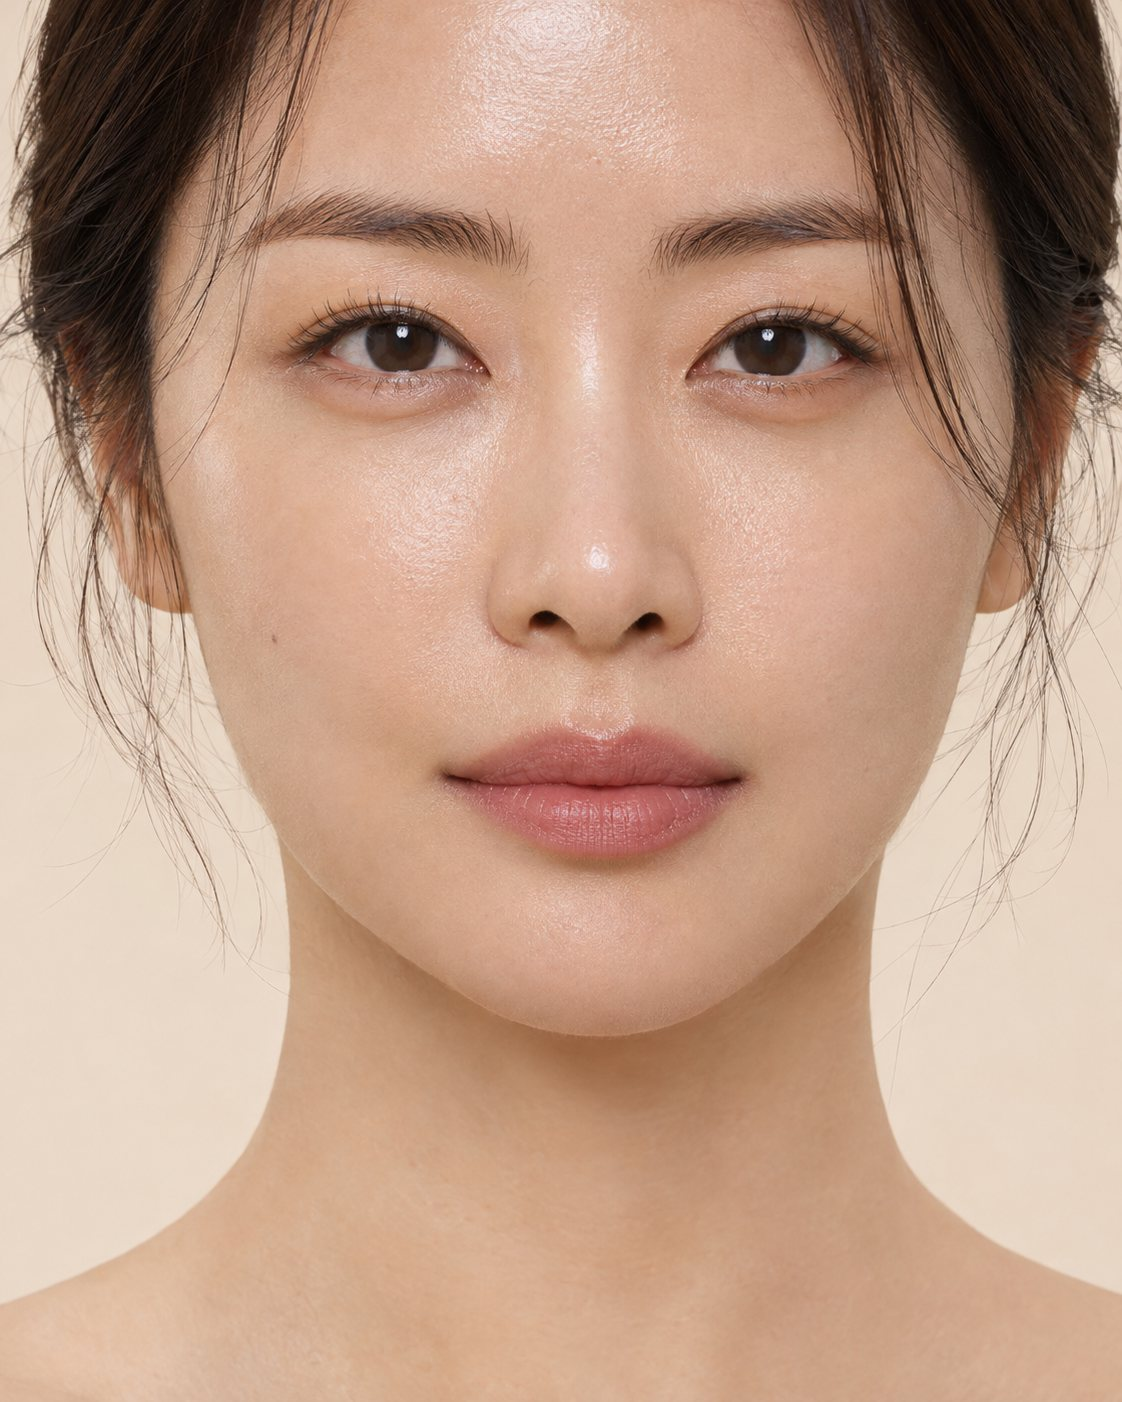
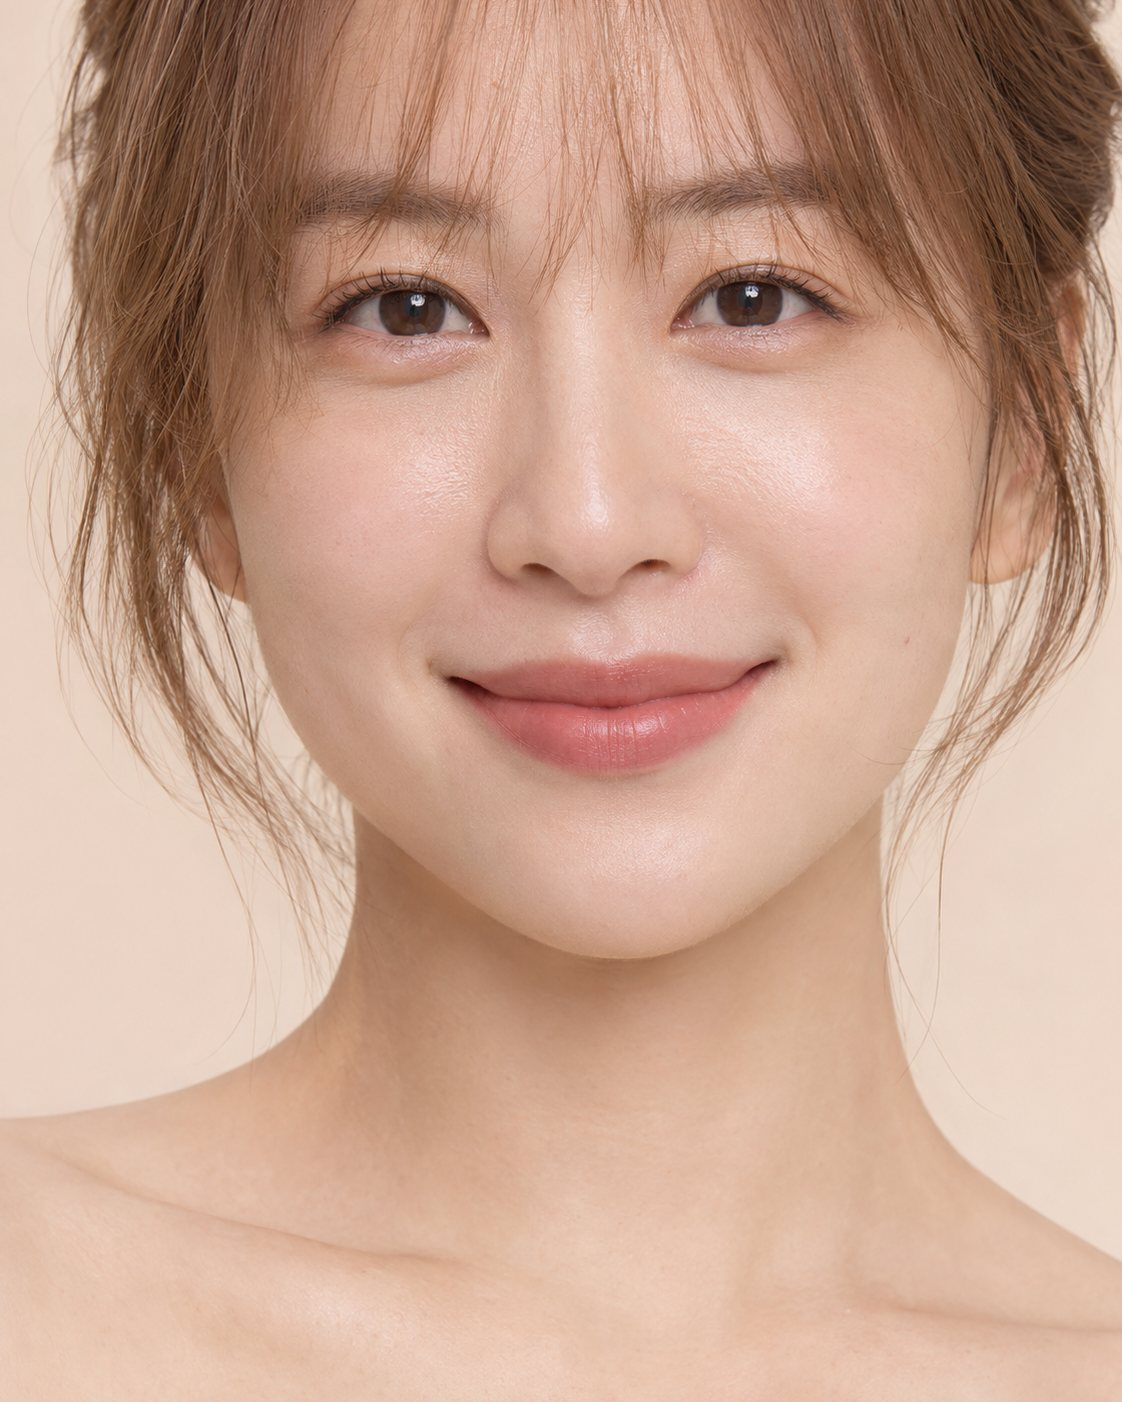
v2: 상품 가격 순 정렬 + 대만 인상 화보 모델로 교체

diff --git a/v2/a.html b/v2/a.html
@@ -327,7 +327,7 @@ a:focus-visible,summary:focus-visible,.opt:focus-visible{outline:3px solid #155e
 const LINE_URL = "https://line.me/R/ti/p/@117yaafh";
 const D = {
   lift:{
-    img:"img/lift.jpg", pos:"50% 30%", pill:"拉提・首爾明洞 初訪限定", h1:"綁起高馬尾的時候，<br>下顎線還在嗎？", big:"99萬",
+    img:"img/lift.jpg", pos:"50% 62%", pill:"拉提・首爾明洞 初訪限定", h1:"綁起高馬尾的時候，<br>下顎線還在嗎？", big:"99萬",
     name:"[初訪限定] ONDA 40KJ ＋ 美國極線音波 300發", short:"ONDA 40KJ＋美國極線音波 300發",
     now:"990,000", was:"1,950,000", save:"960,000", cond:"",
     incl:["ONDA 微波拉提 40KJ","美國極線音波 300發","療程前與醫師諮詢，依膚況安排部位"],
@@ -338,7 +338,7 @@ const D = {
     extra:""
   },
   onda:{
-    img:"img/onda.jpg", pos:"50% 40%", pill:"ONDA 微波拉提 初訪限定", h1:"臉頰肉肉的，<br>拍照總要找側臉？", big:"3.9萬",
+    img:"img/onda.jpg", pos:"50% 60%", pill:"ONDA 微波拉提 初訪限定", h1:"臉頰肉肉的，<br>拍照總要找側臉？", big:"3.9萬",
     name:"[初訪限定] ONDA 微波拉提 10KJ", short:"ONDA 微波拉提 10KJ",
     now:"39,000", was:"77,000", save:"38,000",
     cond:"優惠價最多可加購至30KJ（30KJ＝117,000韓元）<br>超過30KJ的部分以原價計算（每10KJ 77,000韓元）",
@@ -350,7 +350,7 @@ const D = {
     extra:"・ONDA 優惠價最多適用至30KJ，超過部分以原價（每10KJ 77,000韓元）計算<br>"
   },
   potenza:{
-    img:"img/glow.jpg", pos:"50% 45%", pill:"毛孔・膚質 初訪限定", h1:"毛孔大到<br>上妝會卡粉？", big:"19萬",
+    img:"img/glow.jpg", pos:"50% 62%", pill:"毛孔・膚質 初訪限定", h1:"毛孔大到<br>上妝會卡粉？", big:"19萬",
     name:"[初訪限定] 黃金微針 N探頭 ＋ JUVELOOK水光 2CC", short:"黃金微針 N探頭＋JUVELOOK水光 2CC",
     now:"190,000", was:"370,000", save:"180,000", cond:"",
     incl:["黃金微針 N探頭（已含探頭費用）","JUVELOOK 水光 2CC","療程前與醫師諮詢"],
@@ -362,7 +362,7 @@ const D = {
   }
 };
 const MORE = [["咀嚼肌肉毒 50U","9,900"],["臉部減脂注射 3CC","9,900"],["皮秒雷射","19,000"],["鈦提升 10KJ","49,000"]];
-const ORDER = ["lift","onda","potenza"];
+const ORDER = ["onda","potenza","lift"];   // 가격 낮은 순(3.9만·19만·99만)
 let cur = new URLSearchParams(location.search).get("t");
 if(!D[cur]) cur = "lift";
 const $ = id => document.getElementById(id);
@@ -392,7 +392,7 @@ function render(k, top){
     + MORE.map(([n, p]) => `<tr><td>${n}</td><td>${p}韓元</td></tr>`).join("");
   document.querySelectorAll(".opt").forEach(o => { const on = o.dataset.k === k; o.classList.toggle("on", on); o.setAttribute("aria-pressed", String(on)); });
 }
-$("opts").innerHTML = [cur, ...ORDER.filter(k => k !== cur)].map((k, i) => {
+$("opts").innerHTML = ORDER.map((k, i) => {
   const d = D[k];
   return `<button type="button" class="opt" data-k="${k}" aria-pressed="false"><span class="n">方案 ${i + 1}</span><b>${d.short}</b>
   <span class="p"><i>49%</i><strong>${d.now}韓元</strong><s>${d.was}韓元</s></span>${d.cond ? '<span class="c">優惠價最多可加購至30KJ</span>' : ""}</button>`;

diff --git a/v2/b.html b/v2/b.html
@@ -331,7 +331,7 @@ a:focus-visible,summary:focus-visible,.opt:focus-visible{outline:3px solid #155e
 const LINE_URL = "https://line.me/R/ti/p/@117yaafh";
 const D = {
   lift:{
-    img:"img/lift.jpg", pos:"50% 30%", pill:"拉提・首爾明洞 初訪限定", h1:"綁起高馬尾的時候，<br>下顎線還在嗎？", big:"99萬",
+    img:"img/lift.jpg", pos:"50% 62%", pill:"拉提・首爾明洞 初訪限定", h1:"綁起高馬尾的時候，<br>下顎線還在嗎？", big:"99萬",
     name:"[初訪限定] ONDA 40KJ ＋ 美國極線音波 300發", short:"ONDA 40KJ＋美國極線音波 300發",
     now:"990,000", was:"1,950,000", save:"960,000", cond:"",
     incl:["ONDA 微波拉提 40KJ","美國極線音波 300發","療程前與醫師諮詢，依膚況安排部位"],
@@ -342,7 +342,7 @@ const D = {
     extra:""
   },
   onda:{
-    img:"img/onda.jpg", pos:"50% 40%", pill:"ONDA 微波拉提 初訪限定", h1:"臉頰肉肉的，<br>拍照總要找側臉？", big:"3.9萬",
+    img:"img/onda.jpg", pos:"50% 60%", pill:"ONDA 微波拉提 初訪限定", h1:"臉頰肉肉的，<br>拍照總要找側臉？", big:"3.9萬",
     name:"[初訪限定] ONDA 微波拉提 10KJ", short:"ONDA 微波拉提 10KJ",
     now:"39,000", was:"77,000", save:"38,000",
     cond:"優惠價最多可加購至30KJ（30KJ＝117,000韓元）<br>超過30KJ的部分以原價計算（每10KJ 77,000韓元）",
@@ -354,7 +354,7 @@ const D = {
     extra:"・ONDA 優惠價最多適用至30KJ，超過部分以原價（每10KJ 77,000韓元）計算<br>"
   },
   potenza:{
-    img:"img/glow.jpg", pos:"50% 45%", pill:"毛孔・膚質 初訪限定", h1:"毛孔大到<br>上妝會卡粉？", big:"19萬",
+    img:"img/glow.jpg", pos:"50% 62%", pill:"毛孔・膚質 初訪限定", h1:"毛孔大到<br>上妝會卡粉？", big:"19萬",
     name:"[初訪限定] 黃金微針 N探頭 ＋ JUVELOOK水光 2CC", short:"黃金微針 N探頭＋JUVELOOK水光 2CC",
     now:"190,000", was:"370,000", save:"180,000", cond:"",
     incl:["黃金微針 N探頭（已含探頭費用）","JUVELOOK 水光 2CC","療程前與醫師諮詢"],
@@ -366,7 +366,7 @@ const D = {
   }
 };
 const MORE = [["咀嚼肌肉毒 50U","9,900"],["臉部減脂注射 3CC","9,900"],["皮秒雷射","19,000"],["鈦提升 10KJ","49,000"]];
-const ORDER = ["lift","onda","potenza"];
+const ORDER = ["onda","potenza","lift"];   // 가격 낮은 순(3.9만·19만·99만)
 let cur = new URLSearchParams(location.search).get("t");
 if(!D[cur]) cur = "lift";
 const $ = id => document.getElementById(id);
@@ -396,7 +396,7 @@ function render(k, top){
     + MORE.map(([n, p]) => `<tr><td>${n}</td><td>${p}韓元</td></tr>`).join("");
   document.querySelectorAll(".opt").forEach(o => { const on = o.dataset.k === k; o.classList.toggle("on", on); o.setAttribute("aria-pressed", String(on)); });
 }
-$("opts").innerHTML = [cur, ...ORDER.filter(k => k !== cur)].map((k, i) => {
+$("opts").innerHTML = ORDER.map((k, i) => {
   const d = D[k];
   return `<button type="button" class="opt" data-k="${k}" aria-pressed="false"><span class="n">方案 ${i + 1}</span><b>${d.short}</b>
   <span class="p"><i>49%</i><strong>${d.now}韓元</strong><s>${d.was}韓元</s></span>${d.cond ? '<span class="c">優惠價最多可加購至30KJ</span>' : ""}</button>`;

diff --git a/v2/c.html b/v2/c.html
@@ -322,7 +322,7 @@ a:focus-visible,summary:focus-visible,.opt:focus-visible{outline:3px solid #155e
 const LINE_URL = "https://line.me/R/ti/p/@117yaafh";
 const D = {
   lift:{
-    img:"img/lift.jpg", pos:"50% 30%", pill:"拉提・首爾明洞 初訪限定", h1:"綁起高馬尾的時候，<br>下顎線還在嗎？", big:"99萬",
+    img:"img/lift.jpg", pos:"50% 62%", pill:"拉提・首爾明洞 初訪限定", h1:"綁起高馬尾的時候，<br>下顎線還在嗎？", big:"99萬",
     name:"[初訪限定] ONDA 40KJ ＋ 美國極線音波 300發", short:"ONDA 40KJ＋美國極線音波 300發",
     now:"990,000", was:"1,950,000", save:"960,000", cond:"",
     incl:["ONDA 微波拉提 40KJ","美國極線音波 300發","療程前與醫師諮詢，依膚況安排部位"],
@@ -333,7 +333,7 @@ const D = {
     extra:""
   },
   onda:{
-    img:"img/onda.jpg", pos:"50% 40%", pill:"ONDA 微波拉提 初訪限定", h1:"臉頰肉肉的，<br>拍照總要找側臉？", big:"3.9萬",
+    img:"img/onda.jpg", pos:"50% 60%", pill:"ONDA 微波拉提 初訪限定", h1:"臉頰肉肉的，<br>拍照總要找側臉？", big:"3.9萬",
     name:"[初訪限定] ONDA 微波拉提 10KJ", short:"ONDA 微波拉提 10KJ",
     now:"39,000", was:"77,000", save:"38,000",
     cond:"優惠價最多可加購至30KJ（30KJ＝117,000韓元）<br>超過30KJ的部分以原價計算（每10KJ 77,000韓元）",
@@ -345,7 +345,7 @@ const D = {
     extra:"・ONDA 優惠價最多適用至30KJ，超過部分以原價（每10KJ 77,000韓元）計算<br>"
   },
   potenza:{
-    img:"img/glow.jpg", pos:"50% 45%", pill:"毛孔・膚質 初訪限定", h1:"毛孔大到<br>上妝會卡粉？", big:"19萬",
+    img:"img/glow.jpg", pos:"50% 62%", pill:"毛孔・膚質 初訪限定", h1:"毛孔大到<br>上妝會卡粉？", big:"19萬",
     name:"[初訪限定] 黃金微針 N探頭 ＋ JUVELOOK水光 2CC", short:"黃金微針 N探頭＋JUVELOOK水光 2CC",
     now:"190,000", was:"370,000", save:"180,000", cond:"",
     incl:["黃金微針 N探頭（已含探頭費用）","JUVELOOK 水光 2CC","療程前與醫師諮詢"],
@@ -357,7 +357,7 @@ const D = {
   }
 };
 const MORE = [["咀嚼肌肉毒 50U","9,900"],["臉部減脂注射 3CC","9,900"],["皮秒雷射","19,000"],["鈦提升 10KJ","49,000"]];
-const ORDER = ["lift","onda","potenza"];
+const ORDER = ["onda","potenza","lift"];   // 가격 낮은 순(3.9만·19만·99만)
 let cur = new URLSearchParams(location.search).get("t");
 if(!D[cur]) cur = "lift";
 const $ = id => document.getElementById(id);
@@ -387,7 +387,7 @@ function render(k, top){
     + MORE.map(([n, p]) => `<tr><td>${n}</td><td>${p}韓元</td></tr>`).join("");
   document.querySelectorAll(".opt").forEach(o => { const on = o.dataset.k === k; o.classList.toggle("on", on); o.setAttribute("aria-pressed", String(on)); });
 }
-$("opts").innerHTML = [cur, ...ORDER.filter(k => k !== cur)].map((k, i) => {
+$("opts").innerHTML = ORDER.map((k, i) => {
   const d = D[k];
   return `<button type="button" class="opt" data-k="${k}" aria-pressed="false"><span class="n">方案 ${i + 1}</span><b>${d.short}</b>
   <span class="p"><i>49%</i><strong>${d.now}韓元</strong><s>${d.was}韓元</s></span>${d.cond ? '<span class="c">優惠價最多可加購至30KJ</span>' : ""}</button>`;

diff --git a/v2/index.html b/v2/index.html
@@ -305,7 +305,7 @@ a:focus-visible,summary:focus-visible,.opt:focus-visible{outline:3px solid #155e
 const LINE_URL = "https://line.me/R/ti/p/@117yaafh";
 const D = {
   lift:{
-    img:"img/lift.jpg", pos:"50% 30%", pill:"拉提・首爾明洞 初訪限定", h1:"綁起高馬尾的時候，<br>下顎線還在嗎？", big:"99萬",
+    img:"img/lift.jpg", pos:"50% 62%", pill:"拉提・首爾明洞 初訪限定", h1:"綁起高馬尾的時候，<br>下顎線還在嗎？", big:"99萬",
     name:"[初訪限定] ONDA 40KJ ＋ 美國極線音波 300發", short:"ONDA 40KJ＋美國極線音波 300發",
     now:"990,000", was:"1,950,000", save:"960,000", cond:"",
     incl:["ONDA 微波拉提 40KJ","美國極線音波 300發","療程前與醫師諮詢，依膚況安排部位"],
@@ -316,7 +316,7 @@ const D = {
     extra:""
   },
   onda:{
-    img:"img/onda.jpg", pos:"50% 40%", pill:"ONDA 微波拉提 初訪限定", h1:"臉頰肉肉的，<br>拍照總要找側臉？", big:"3.9萬",
+    img:"img/onda.jpg", pos:"50% 60%", pill:"ONDA 微波拉提 初訪限定", h1:"臉頰肉肉的，<br>拍照總要找側臉？", big:"3.9萬",
     name:"[初訪限定] ONDA 微波拉提 10KJ", short:"ONDA 微波拉提 10KJ",
     now:"39,000", was:"77,000", save:"38,000",
     cond:"優惠價最多可加購至30KJ（30KJ＝117,000韓元）<br>超過30KJ的部分以原價計算（每10KJ 77,000韓元）",
@@ -328,7 +328,7 @@ const D = {
     extra:"・ONDA 優惠價最多適用至30KJ，超過部分以原價（每10KJ 77,000韓元）計算<br>"
   },
   potenza:{
-    img:"img/glow.jpg", pos:"50% 45%", pill:"毛孔・膚質 初訪限定", h1:"毛孔大到<br>上妝會卡粉？", big:"19萬",
+    img:"img/glow.jpg", pos:"50% 62%", pill:"毛孔・膚質 初訪限定", h1:"毛孔大到<br>上妝會卡粉？", big:"19萬",
     name:"[初訪限定] 黃金微針 N探頭 ＋ JUVELOOK水光 2CC", short:"黃金微針 N探頭＋JUVELOOK水光 2CC",
     now:"190,000", was:"370,000", save:"180,000", cond:"",
     incl:["黃金微針 N探頭（已含探頭費用）","JUVELOOK 水光 2CC","療程前與醫師諮詢"],
@@ -340,7 +340,7 @@ const D = {
   }
 };
 const MORE = [["咀嚼肌肉毒 50U","9,900"],["臉部減脂注射 3CC","9,900"],["皮秒雷射","19,000"],["鈦提升 10KJ","49,000"]];
-const ORDER = ["lift","onda","potenza"];
+const ORDER = ["onda","potenza","lift"];   // 가격 낮은 순(3.9만·19만·99만)
 let cur = new URLSearchParams(location.search).get("t");
 if(!D[cur]) cur = "lift";
 const $ = id => document.getElementById(id);
@@ -370,7 +370,7 @@ function render(k, top){
     + MORE.map(([n, p]) => `<tr><td>${n}</td><td>${p}韓元</td></tr>`).join("");
   document.querySelectorAll(".opt").forEach(o => { const on = o.dataset.k === k; o.classList.toggle("on", on); o.setAttribute("aria-pressed", String(on)); });
 }
-$("opts").innerHTML = [cur, ...ORDER.filter(k => k !== cur)].map((k, i) => {
+$("opts").innerHTML = ORDER.map((k, i) => {
   const d = D[k];
   return `<button type="button" class="opt" data-k="${k}" aria-pressed="false"><span class="n">方案 ${i + 1}</span><b>${d.short}</b>
   <span class="p"><i>49%</i><strong>${d.now}韓元</strong><s>${d.was}韓元</s></span>${d.cond ? '<span class="c">優惠價最多可加購至30KJ</span>' : ""}</button>`;
